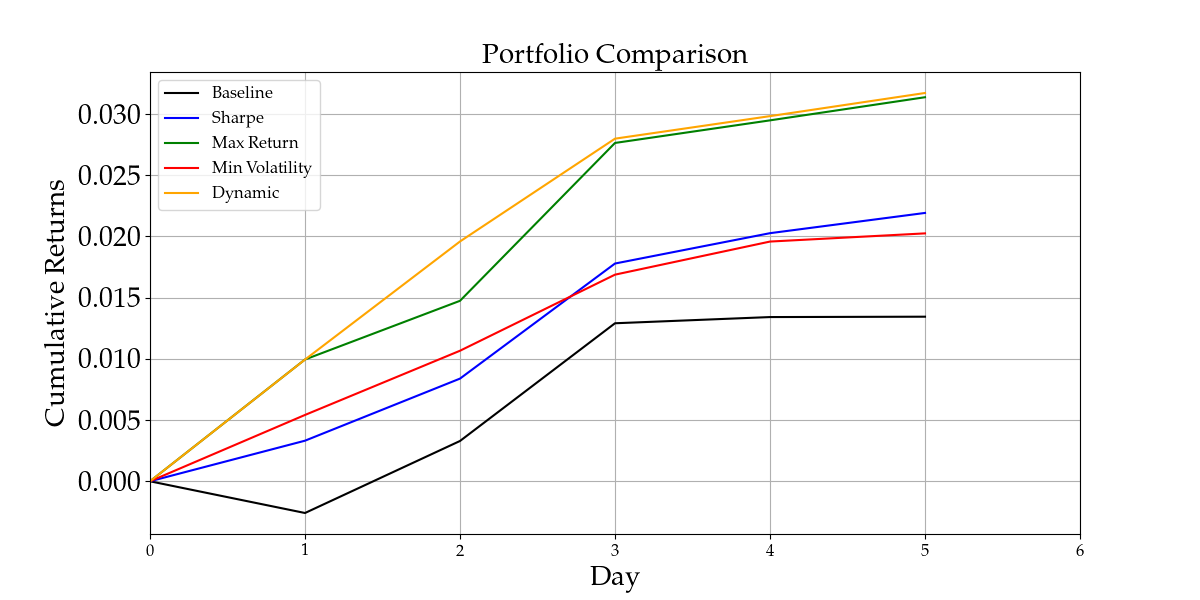
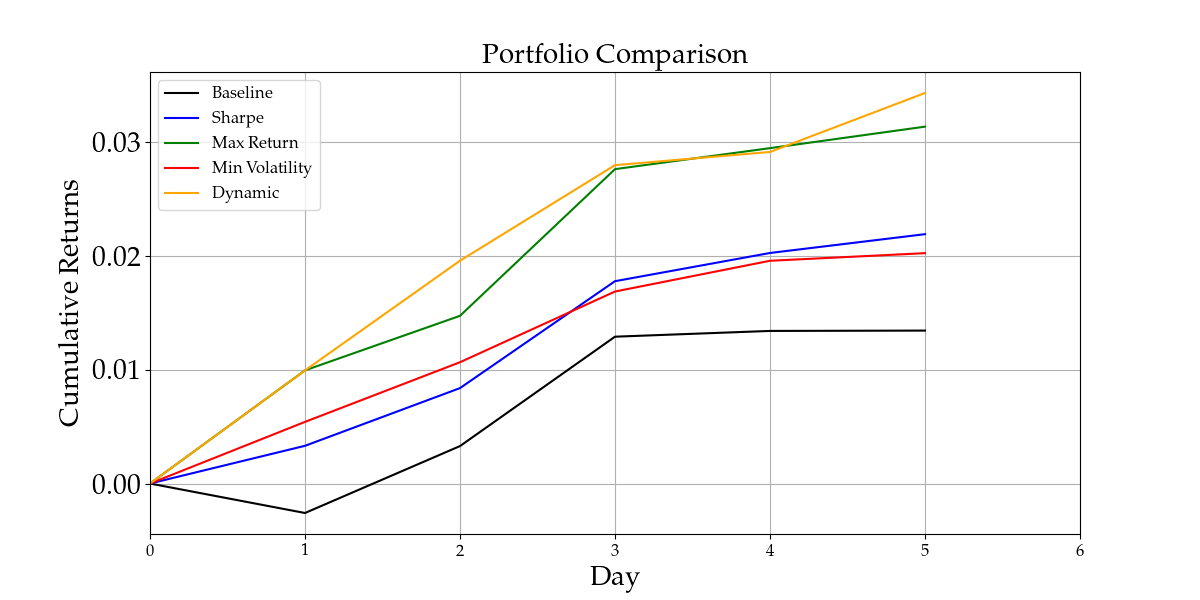
update
update

diff --git a/Multi-Input_GPR/Strategies/dynamic_strategy.py b/Multi-Input_GPR/Strategies/dynamic_strategy.py
@@ -21,7 +21,7 @@ class DynamicStrategy(Strategy):
     
     # Multivariate normal version
     # A should be previous time point, B should be current time point
-    def probability_A_greater_than_B_mvnorm(self, mu_A, cov_A, mu_B, cov_B, num_samples=1000):
+    def probability_A_greater_than_B_mvnorm(self, mu_A, cov_A, mu_B, cov_B, num_samples=10000):
         """
         Estimate the probability that A > B for two multivariate normal distributions A ~ N(mu_A, cov_A)
         and B ~ N(mu_B, cov_B) using Monte Carlo sampling.

diff --git a/Multi-Input_GPR/strategies/min_volatility_strategy.py b/Multi-Input_GPR/strategies/min_volatility_strategy.py
@@ -16,7 +16,7 @@ class MinVolatilityStrategy(Strategy):
         :param min_return: Minimum return constraint.
         :return: Optimal portfolio weights.
         """
-        # Perform optimization to maximize return (constrained by volatility)
+        # Perform optimization to minimize portfolio volatility (constrained by volatility)
         optimal_weights = optimizer.minimize_uncertainty(min_return=min_return)
 
         # Apply broker fee adjustments if the flag is enabled

diff --git a/Multi-Input_GPR/main.py b/Multi-Input_GPR/main.py
@@ -496,7 +496,7 @@ if __name__ == "__main__":
 
     max_volatility_threshold = 0.02  
     min_return_threshold = 0.005
-    prob_threshold = 0.05
+    prob_threshold = 0.5
 
     l1 = 0.01
     l2 = 0.00
